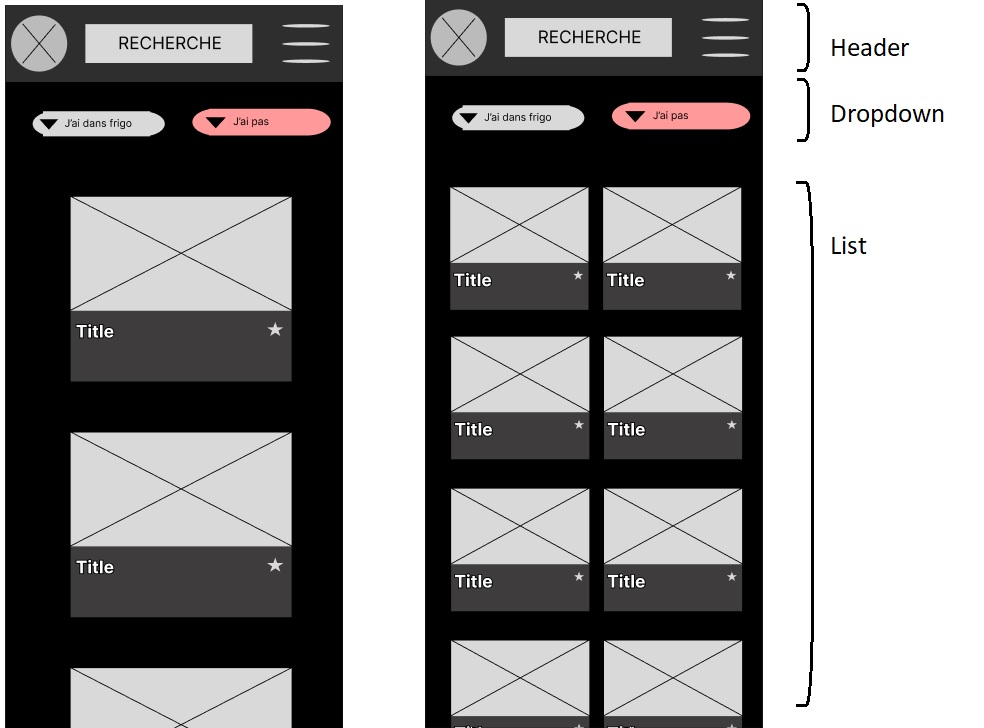
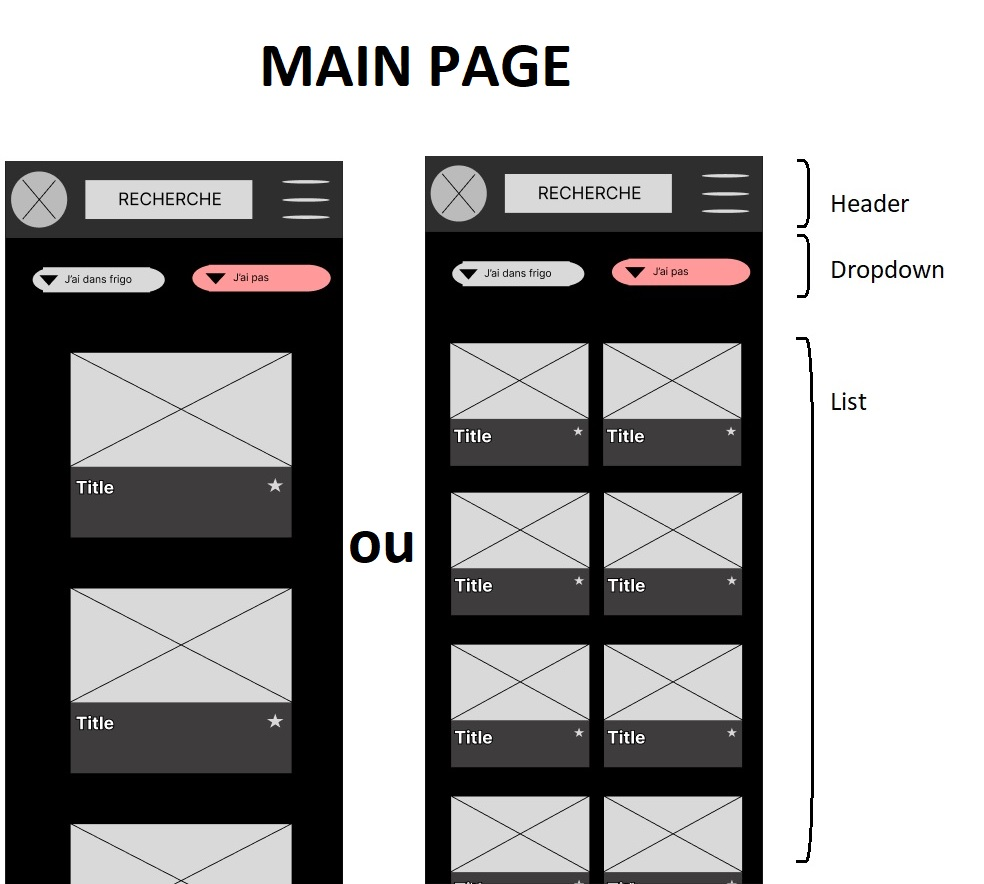
adding readMe and images

diff --git a/src/app/app.component.html b/src/app/app.component.html
@@ -1,0 +1,1 @@
+<router-outlet></router-outlet>

diff --git a/README.md b/README.md
@@ -1,37 +1,16 @@
 # AppliBouffe
 
+les PUSH nécéssitent juste une PR pour pouvoir merge, pas de confirmation (comme ça on peut push sans attendre les amis -et Nico- pour se débrouiller seul, donc faites gaffe au cas où)  
+  
+branc INDEX et DEVELOP créées
+  
 en gros si cela pouvait ressembler à ça  
   
-![imageWireframe](./src/assets/images/mainPagewireframe.png)  
-    
-et une fois une recette cliquée
-    
-![imageWireframeClicked](./src/assets/images/mainPagewireframeClicked.png)  
+component pour `MainPage` (incluant les app Header, Dropdown et List) et `MealCliked` créé
   
-pas de Figma (wireframe, maquette) on y va au talent)  
-toutes les idées sont les bienvenues ! ballec c'est un truc perso  
-  
+<img src="./src/assets/images/mainPagewireframe.jpg" height="400"/> <img src="./src/assets/images/mealClickedWireframe.jpg" height="400"/>
 
-## Development server
+## SCSS
 
-Run `ng serve` for a dev server. Navigate to `http://localhost:4200/`. The application will automatically reload if you change any of the source files.
-
-## Code scaffolding
-
-Run `ng generate component component-name` to generate a new component. You can also use `ng generate directive|pipe|service|class|guard|interface|enum|module`.
-
-## Build
-
-Run `ng build` to build the project. The build artifacts will be stored in the `dist/` directory.
-
-## Running unit tests
-
-Run `ng test` to execute the unit tests via [Karma](https://karma-runner.github.io).
-
-## Running end-to-end tests
-
-Run `ng e2e` to execute the end-to-end tests via a platform of your choice. To use this command, you need to first add a package that implements end-to-end testing capabilities.
-
-## Further help
-
-To get more help on the Angular CLI use `ng help` or go check out the [Angular CLI Overview and Command Reference](https://angular.io/cli) page.
+Projet créé en `SCSS` sur le principe ça fonctionne à 95% comme CSS, les variables sont différentes (déjà installé) (si besoin la quête [SCSS Odyssey](https://odyssey.wildcodeschool.com/quests/551). Donc vous pouvez coder en CSS sur les fichiers SCSS.  
+J'ai déjà posé quelques variables (couleurs et polices) qu'on adaptera plus tard quand l'esthétique deviendra intéréssant, pour le moment c'ets pas le problème, mais essayez-de vous servir des variables, pour pas qu'on se retartine tout à la fin.
